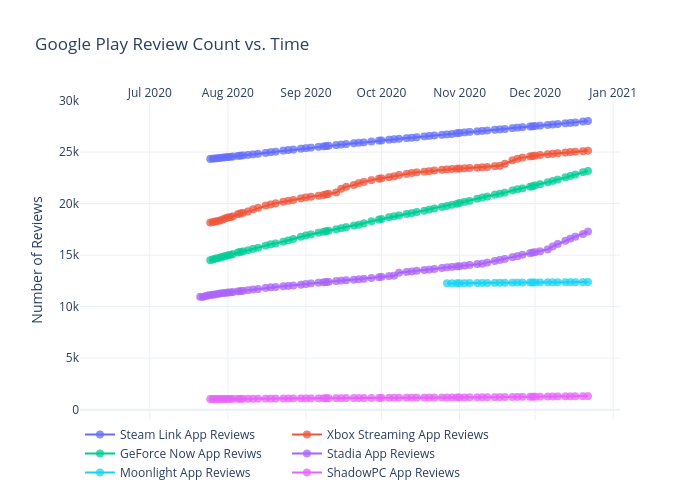
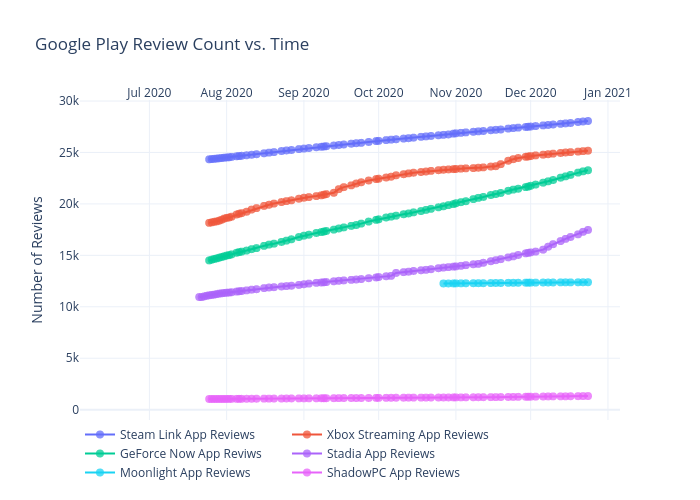
Add files via upload

diff --git a/googleplay/figure.js b/googleplay/figure.js
@@ -181,7 +181,8 @@ var figure = {
                 "27827",
                 "27868",
                 "27965",
-                "28014"
+                "28014",
+                "28061"
             ],
             "marker": {
                 "size": 8,
@@ -372,7 +373,8 @@ var figure = {
                 "25003",
                 "25035",
                 "25087",
-                "25132"
+                "25132",
+                "25174"
             ],
             "marker": {
                 "size": 8,
@@ -563,7 +565,8 @@ var figure = {
                 "22680",
                 "22819",
                 "23044",
-                "23166"
+                "23166",
+                "23271"
             ],
             "marker": {
                 "size": 8,
@@ -754,7 +757,8 @@ var figure = {
                 "16602",
                 "16787",
                 "17043",
-                "17285"
+                "17285",
+                "17471"
             ],
             "marker": {
                 "size": 8,
@@ -945,7 +949,8 @@ var figure = {
                 "12377",
                 "12374",
                 "12381",
-                "12383"
+                "12383",
+                "12388"
             ],
             "marker": {
                 "size": 8,
@@ -1136,7 +1141,8 @@ var figure = {
                 "1295",
                 "1303",
                 "1310",
-                "1318"
+                "1318",
+                "1324"
             ],
             "marker": {
                 "size": 8,
@@ -1155,8 +1161,8 @@ var figure = {
             "side": "top",
             "type": "date",
             "range": [
-                "2020-06-04 03:44:16.1004",
-                "2021-01-02 20:15:43.8996"
+                "2020-06-04 00:43:47.0644",
+                "2021-01-04 23:16:12.9356"
             ],
             "title": {
                 "text": ""
@@ -1166,8 +1172,8 @@ var figure = {
         "yaxis": {
             "type": "linear",
             "range": [
-                -812.7142190053703,
-                29862.71421900537
+                -815.9349754844739,
+                29912.934975484473
             ],
             "title": {
                 "text": "Number of Reviews"
